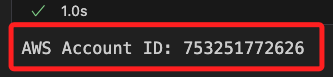
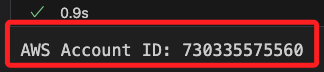
Commit on 2024-11-02 19:36:22

Changed region(s): [[0.0, 0.0556, 1.0, 0.9444], [0.1852, 0.5278, 0.4012, 0.7778], [0.4321, 0.5278, 0.5247, 0.7778]]

diff --git a/01_課程筆記/00_Lab/94020/Lab 6.1_Implementing Topic Modeling with Amazon Comprehend/01_官方範例/01_官方範例說明.md b/01_課程筆記/00_Lab/94020/Lab 6.1_Implementing Topic Modeling with Amazon Comprehend/01_官方範例/01_官方範例說明.md
@@ -86,7 +86,7 @@ _建立本地工作環境_
 
 <br>
 
-5. 這個 Lab 提供的 Account ID 是固定的。
+5. 務必進入主控台查看是否與 Account ID 相同。
 
     ![](images/img_02.png)
 
